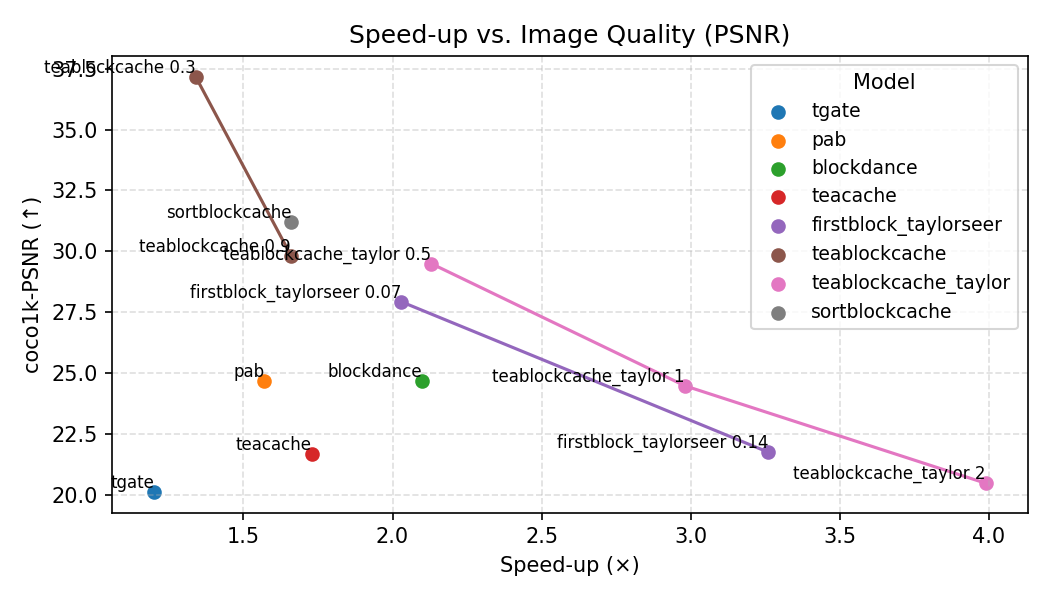
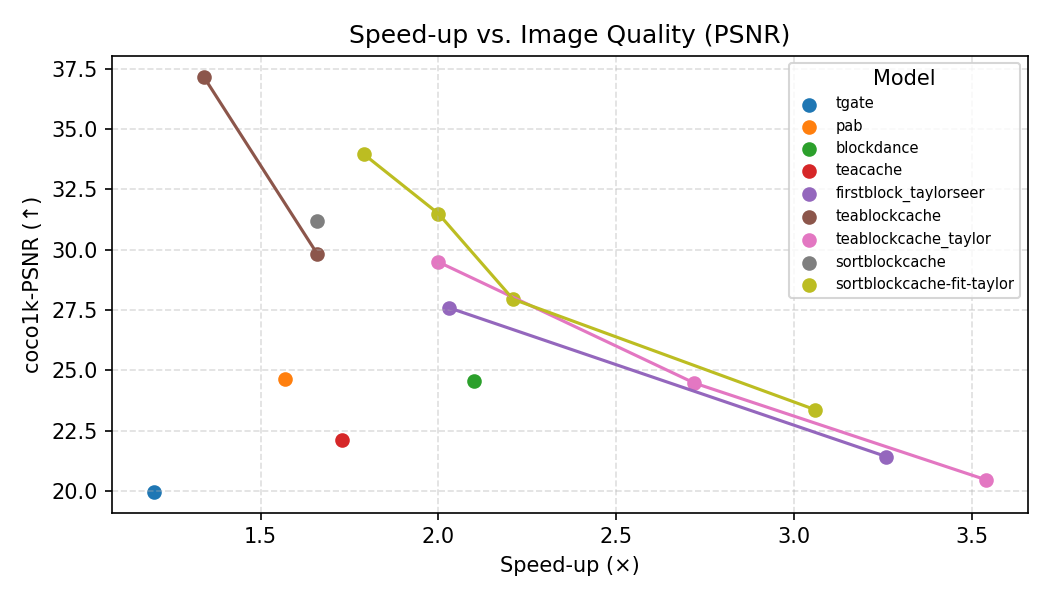
backup

diff --git a/ppdiffusers/examples/TeaBlockCache/draw_accel_vs_psnr.py b/ppdiffusers/examples/TeaBlockCache/draw_accel_vs_psnr.py
@@ -14,19 +14,51 @@ import matplotlib.pyplot as plt
 # ---------- 数据 ----------
 # 说明：第三列请填入 *实际* coco1k-PSNR（数值越高越好）
 records = [
-    ("tgate",                     1.20, 20.11),
-    ("pab",                       1.57, 24.67),
-    ("blockdance",                2.10, 24.65),
-    ("teacache",                  1.73, 21.68),
-    ("firstblock_taylorseer 0.07", 2.03, 27.92),
-    ("firstblock_taylorseer 0.14", 3.26, 21.74),
-    # ("teablockcache 0.0",    0.93, 100.00),
-    ("teablockcache 0.3",    1.34,  37.17),
-    ("teablockcache 0.9",    1.66,  29.81),
-    ("teablockcache_taylor 2",    3.99,  20.46),
-    ("teablockcache_taylor 1",    2.98,  24.47),
-    ("teablockcache_taylor 0.5",  2.13,  29.49),
-    ("sortblockcache",            1.66,  31.1875),
+    # ("tgate",                     1.20, 20.11),
+    # ("pab",                       1.57, 24.67),
+    # ("blockdance",                2.10, 24.65),
+    # ("teacache",                  1.73, 21.68),
+    # ("firstblock_taylorseer 0.07", 2.03, 27.92),
+    # ("firstblock_taylorseer 0.14", 3.26, 21.74),
+    # # ("teablockcache 0.0",    0.93, 100.00),
+    # ("teablockcache 0.3",    1.34,  37.17),
+    # ("teablockcache 0.9",    1.66,  29.81),
+    # ("teablockcache_taylor 2",    3.99,  20.46),
+    # ("teablockcache_taylor 1",    2.98,  24.47),
+    # ("teablockcache_taylor 0.5",  2.13,  29.49),
+    # ("sortblockcache",            1.66,  31.1875),
+    # ("tgate",                     1.20, 19.96),
+    # ("pab",                       1.57, 24.65),
+    # ("blockdance",                2.10, 24.57),
+    # ("teacache",                  1.73, 22.11),
+    # ("firstblock_taylorseer 0.07", 2.03, 27.59),
+    # ("firstblock_taylorseer 0.14", 3.26, 21.42),
+    # # ("teablockcache 0.0",    0.93, 100.00),
+    # ("teablockcache 0.3",    1.34,  37.17),
+    # ("teablockcache 0.9",    1.66,  29.81),
+    # ("teablockcache_taylor 2",    3.99,  20.46),
+    # ("teablockcache_taylor 1",    2.98,  24.47),
+    # ("teablockcache_taylor 0.5",  2.13,  29.49),
+    # ("sortblockcache",            1.66,  31.1875),
+
+    ("tgate",                     1.20, 19.96),
+    ("pab",                       1.57, 24.65),
+    ("blockdance",                     2.10, 24.57),
+    ("teacache",                  1.73, 22.11),
+    ("firstblock_taylorseer 0.07", 2.03, 27.59),
+    ("firstblock_taylorseer 0.14", 3.26, 21.42),
+    # ("teablockcache 0.0", 0.93, 100.0),
+    ("teablockcache 0.3", 1.34, 37.17),
+    ("teablockcache 0.9", 1.66, 29.81),
+    ("teablockcache_taylor 2", 3.54, 20.46),
+    ("teablockcache_taylor 1", 2.72, 24.47),
+    ("teablockcache_taylor 0.5", 2.00, 29.49),
+    ("sortblockcache", 1.66, 31.2019),
+    ("sortblockcache-fit-taylor", 1.79, 33.9615),
+    ("sortblockcache-fit-taylor", 2.00, 31.4957),
+    ("sortblockcache-fit-taylor", 2.21, 27.9479),
+    # ("sortblockcache-fit-taylor", 2.88, 23.6289),
+    ("sortblockcache-fit-taylor", 3.06, 23.3634),
 ]
 # --------------------------
 
@@ -51,14 +83,14 @@ for base, pts in groups.items():
     if len(pts) > 1:
         ax.plot(xs, ys, color=scatter.get_facecolors()[0])  # 连线
 
-    for x, y, lbl in pts:                         # 给每点加完整标签
-        ax.text(x, y, lbl, fontsize=8, ha="right", va="bottom")
+    # for x, y, lbl in pts:                         # 给每点加完整标签
+    #     ax.text(x, y, lbl, fontsize=8, ha="right", va="bottom")
 
 ax.set_xlabel("Speed-up (×)")
 ax.set_ylabel("coco1k-PSNR (↑)")
 ax.set_title("Speed-up vs. Image Quality (PSNR)")
 ax.grid(True, linestyle="--", alpha=0.4)
-ax.legend(title="Model", fontsize=9)
+ax.legend(title="Model", fontsize=7)
 plt.tight_layout()
 
 # 有 / 无 GUI 的两种输出方式

diff --git a/ppdiffusers/examples/TeaBlockCache/draw_accel_vs_ssim.py b/ppdiffusers/examples/TeaBlockCache/draw_accel_vs_ssim.py
@@ -14,6 +14,42 @@ import matplotlib.pyplot as plt
 
 # ---------- 数据 ----------
 records = [
+    # ("tgate",                     1.20, 0.740),
+    # ("pab",                       1.57, 0.8516),
+    # ("blockdance",                     2.10, 0.858),
+    # ("teacache",                  1.73, 0.797),
+    # ("firstblock_taylorseer 0.07", 2.03, 0.917),
+    # ("firstblock_taylorseer 0.14", 3.26, 0.799),
+    # ("teablockcache 0.0", 0.93, 1.0),
+    # ("teablockcache 0.3", 1.34, 0.9833),
+    # ("teablockcache 0.9", 1.66, 0.9385),
+    # ("teablockcache_taylor 2", 3.54, 0.7663),
+    # ("teablockcache_taylor 1", 2.72, 0.8665),
+    # ("teablockcache_taylor 0.5", 2.00, 0.9364),
+    # ("sortblockcache", 1.66, 0.95176),
+    # ("sortblockcache-fit-taylor", 1.81, 0.9520),
+    # ("sortblockcache-fit-taylor", 2.00, 0.9520),
+    # ("sortblockcache-fit-taylor", 2.307, 0.91),
+    # ("sortblockcache-fit-taylor", 2.88, 0.84326),
+    # ("sortblockcache-fit-taylor", 3.06, 0.83731),
+    # ("tgate",                     1.20, 0.740),
+    # ("pab",                       1.57, 0.8516),
+    # ("blockdance",                     2.10, 0.858),
+    # ("teacache",                  1.73, 0.797),
+    # ("firstblock_taylorseer 0.07", 2.03, 0.917),
+    # ("firstblock_taylorseer 0.14", 3.26, 0.799),
+    # ("teablockcache 0.0", 0.93, 1.0),
+    # ("teablockcache 0.3", 1.34, 0.9833),
+    # ("teablockcache 0.9", 1.66, 0.9385),
+    # ("teablockcache_taylor 2", 3.54, 0.7663),
+    # ("teablockcache_taylor 1", 2.72, 0.8665),
+    # ("teablockcache_taylor 0.5", 2.00, 0.9364),
+    # ("sortblockcache", 1.66, 0.95176),
+    # ("sortblockcache-fit-taylor", 1.81, 0.9520),
+    # ("sortblockcache-fit-taylor", 2.00, 0.9520),
+    # ("sortblockcache-fit-taylor", 2.307, 0.91),
+    # # ("sortblockcache-fit-taylor", 2.88, 0.84326),
+    # ("sortblockcache-fit-taylor", 3.06, 0.83731),
     ("tgate",                     1.20, 0.740),
     ("pab",                       1.57, 0.8516),
     ("blockdance",                     2.10, 0.858),
@@ -26,11 +62,12 @@ records = [
     ("teablockcache_taylor 2", 3.54, 0.7663),
     ("teablockcache_taylor 1", 2.72, 0.8665),
     ("teablockcache_taylor 0.5", 2.00, 0.9364),
-    ("sortblockcache", 1.66, 0.95176),
-    ("sortblockcache-fit-taylor", 1.81, 0.95413),
+    ("sortblockcache", 1.66, 0.95207),
+    ("sortblockcache-fit-taylor", 1.79, 0.96618),
+    ("sortblockcache-fit-taylor", 2.00, 0.9520),
     ("sortblockcache-fit-taylor", 2.21, 0.91984),
-    ("sortblockcache-fit-taylor", 2.86, 0.84326),
-    ("sortblockcache-fit-taylor", 3.00, 0.83731),
+    # ("sortblockcache-fit-taylor", 2.88, 0.84326),
+    ("sortblockcache-fit-taylor", 3.06, 0.83731),
 ]
 # --------------------------
 
@@ -55,14 +92,14 @@ for base, pts in groups.items():
     if len(pts) > 1:
         ax.plot(xs, ys, color=scatter.get_facecolors()[0])  # 连线
 
-    for x, y, lbl in pts:               # 给每点加完整标签
-        ax.text(x, y, lbl, fontsize=8, ha="right", va="bottom")
+    # for x, y, lbl in pts:               # 给每点加完整标签
+    #     ax.text(x, y, lbl, fontsize=8, ha="right", va="bottom")
 
 ax.set_xlabel("Speed-up (×)")
 ax.set_ylabel("coco1k-ssim (↑)")
 ax.set_title("Speed-up vs. Image Quality (SSIM)")
 ax.grid(True, linestyle="--", alpha=0.4)
-ax.legend(title="Model", fontsize=9)
+ax.legend(title="Model", fontsize=7)
 plt.tight_layout()
 
 # 有 / 无 GUI 的两种输出方式
